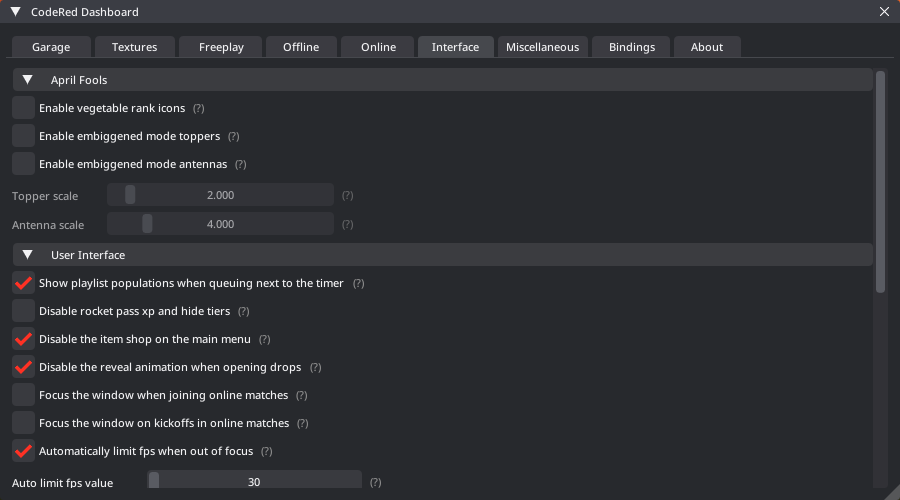
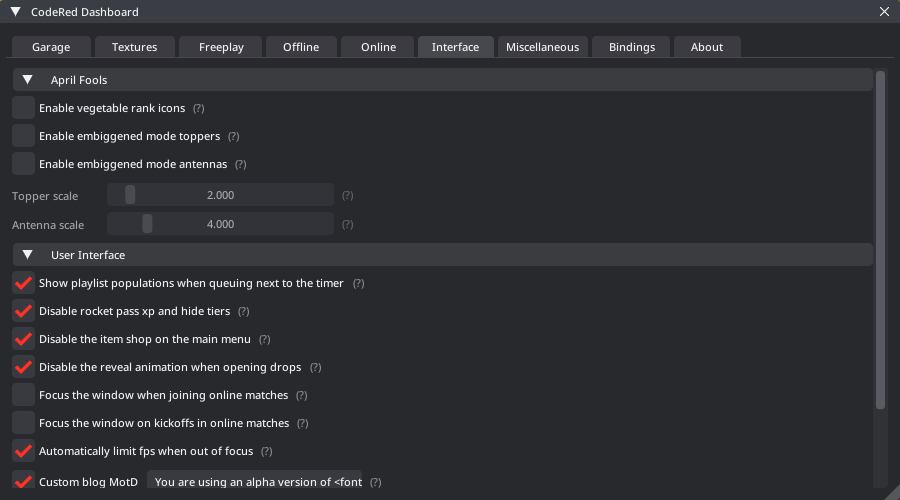
Updated to v2.0.0

Changed region(s): [[0.0, 0.93, 0.4044, 0.99], [0.9644, 0.57, 0.9956, 0.81], [0.0, 0.6, 0.0311, 0.63]]

diff --git a/changelog.html b/changelog.html
@@ -52,6 +52,8 @@
             </div>
 		    <nav id="docs-nav" class="docs-nav navbar">
 			    <ul class="section-items list-unstyled nav flex-column pb-3">
+                    <li class="nav-item section-title mt-3"><a class="nav-link scrollto" href="#section-3"><span class="theme-icon-holder me-2"><i class="fas fa-book"></i></span>Changelog (Beta)</a></li>
+                    <li class="nav-item"><a class="nav-link scrollto" href="#item-3-0-0">Version 2.0.0</a></li>
                     <li class="nav-item section-title mt-3"><a class="nav-link scrollto" href="#section-2"><span class="theme-icon-holder me-2"><i class="fas fa-book"></i></span>Changelog (Alpha)</a></li>
                     <li class="nav-item"><a class="nav-link scrollto" href="#item-2-9-9">Version 1.9.9</a></li>
                     <li class="nav-item"><a class="nav-link scrollto" href="#item-2-9-8">Version 1.9.8</a></li>
@@ -193,6 +195,26 @@
 
 	    <div class="docs-content">
 		    <div class="container">
+                <article class="docs-article" id="section-3">
+                    <h1 class="docs-heading">Changelog (Beta)</h1>
+
+                        <section class="docs-section" id="item-3-0-0">
+                            <h2 class="section-heading">Version 2.0.0 (January 13th 2023)</h2>
+                            <h5>- Added a new "Vantablack (Black Grey)" style, which is an extra dark mode version of the default style.</h5>
+                            <h5>- Refined the color palettes in all the default styles slightly to be more consistent, as well as the special "Duotone" terminal themes.</h5>
+                            <h5>- You can no longer set window backgrounds or text to be fully transparent in custom styles, as Th3Ant tried exactly that and couldn't see any windows anymore (who woulda thought?).</h5>
+                            <h5>- Removed the legacy "Pitch Black" style, as it was a bit of an eye sore and no one used it anyway.</h5>
+                            <h5>- Removed the settings to customize blog info (other than the MotD), as they have been broken for a long time and I don't plan on fixing them.</h5>
+                            <h5>- Fixed the main menu background restoring back its default one when idling on the main menu, if you had a different one selected in CodeRed.</h5>
+                            <h5>- Fixed the <code>interface_hide_seasonrewards</code> setting sometimes not applying after a game ended and your rewards updated.</h5>
+                            <h5>- Fixed yet another loading screen crash related to the matchmaker window grabbing playlist nodes in the background.</h5>
+                            <h5>- Fixed a rare crash that could happen on injection related to not finding global objects or names.</h5>
+                            <h5>- Upgraded the internal ImGui framework to version 1.9.1.</h5>
+                            <h5>- Stability improvements and internal optimizations.</h5>
+                        </section>
+
+                </article>
+
 			    <article class="docs-article" id="section-2">
                     <h1 class="docs-heading">Changelog (Alpha)</h1>
 
@@ -1235,6 +1257,13 @@
 
                 <article class="docs-article" id="section-1">
                     <h1 class="docs-heading">Launcher Changelog</h1>
+
+                    <section class="docs-section" id="item-1-3-2">
+                        <h2 class="section-heading">Version 1.3.2 (January 12th 2023)</h2>
+                        <h5>- Added a new loading screen window when changing install paths, as it may take some time to copy and move everything.</h5>
+                        <h5>- Fixed the user being able to change install paths while CodeRed was injected in the game.</h5>
+                        <h5>- Internal code refactoring and improvements.</h5>
+                    </section>
 
                     <section class="docs-section" id="item-1-3-1">
                         <h2 class="section-heading">Version 1.3.1 (December 14th 2023)</h2>

diff --git a/documentation.html b/documentation.html
@@ -1149,24 +1149,8 @@
                                         <td>The auto gg delay after online matches in seconds.</td>
                                     </tr>
                                     <tr>
-                                        <th class="theme-bg-light"><b>interface_blog_description &ltarguments&gt</b></th>
-                                        <td>The custom description to display on the blogs news panel.</td>
-                                    </tr>
-                                    <tr>
-                                        <th class="theme-bg-light"><b>interface_blog_image &ltarguments&gt</b></th>
-                                        <td>The custom image url to display on the blogs news panel (JPG Only).</td>
-                                    </tr>
-                                    <tr>
-                                        <th class="theme-bg-light"><b>interface_blog_link &ltarguments&gt</b></th>
-                                        <td>The custom external link to display on the blogs news panel.</td>
-                                    </tr>
-                                    <tr>
                                         <th class="theme-bg-light"><b>interface_blog_motd &ltarguments&gt</b></th>
                                         <td>The custom message of the day string for the blog.</td>
-                                    </tr>
-                                    <tr>
-                                        <th class="theme-bg-light"><b>interface_blog_title &ltarguments&gt</b></th>
-                                        <td>The custom title to display on the blogs news panel.</td>
                                     </tr>
                                     <tr>
                                         <th class="theme-bg-light"><b>interface_custom_blog &lttrue-false&gt</b></th>
